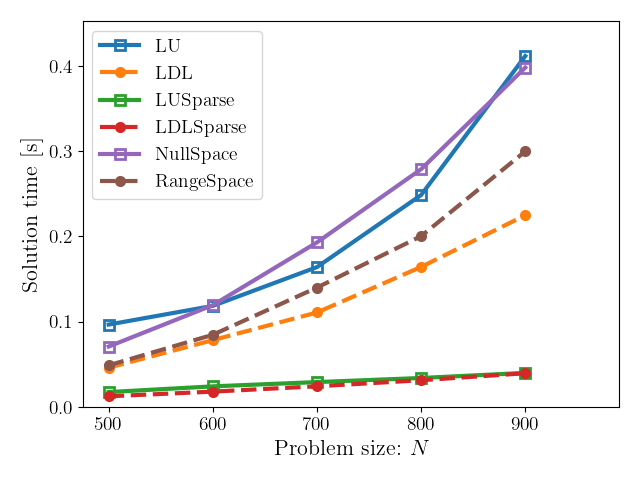
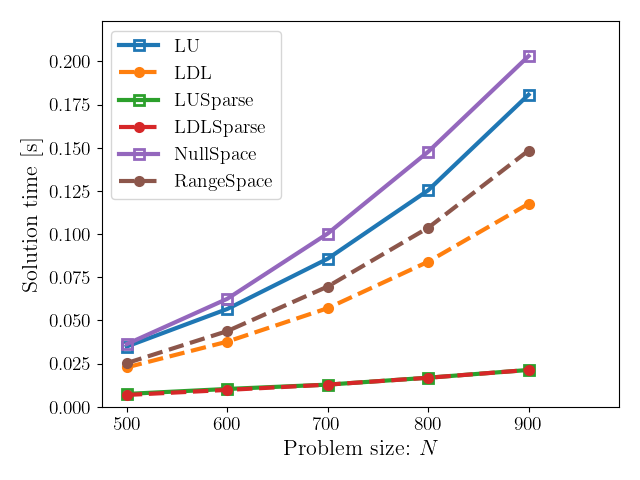
Working on exercise 1, apparantly there is a problem with the LDL sparse solver. But all other solvers work fine.

diff --git a/mtaho/Assignment/ex01/driver_ex015.py b/mtaho/Assignment/ex01/driver_ex015.py
@@ -1,0 +1,177 @@
+import os
+os.environ["OMP_NUM_THREADS"] = "1" # LIMIT NUMBER OF THREADS FOR MEASURING
+
+import matplotlib.pyplot as plt
+import numpy as np
+import sys
+import cvxpy as cp
+import cvxopt 
+import scipy as sp
+from scipy.optimize import minimize, Bounds
+from scipy.optimize import LinearConstraint, NonlinearConstraint
+import datetime
+import logging
+import timeit
+import pandas as pd
+# import cyipopt
+# from cyipopt import minimize_ipopt
+
+projectDir = "/home/mtaho/Code/Courses/ConstrainedOptimization"
+# projectDir = "C:/Users/marku/Programming/ConstrainedOptimization"
+sys.path.append(os.path.realpath(f"{projectDir}"))
+
+from mtaho.plot_settings import define_plot_settings
+from mtaho.src.FiniteDifference import FD
+from mtaho.src.BasicOpt import Opt
+from mtaho.src.Solvers import Solvers
+
+workDir = f"{projectDir}/mtaho/Assignment/ex01"
+
+### 3) Define problem
+
+
+def setupProblem(n, alpha, beta, density):
+    # Generates data for a random equality constrained convex QP
+    #
+    # Problem: 
+    # min_x : 0.5*x'Hx + g'x
+    # s.t.  : A'x = b
+    #
+    # Inputs:
+    #   n       : Number of variables
+    #   alpha   : Regularization factor. alpha > 0
+    #   beta    : Ratio between constraints and design variables: 0 < beta < 1
+    #   density : Density of sparse matrix. 0 < density < 1
+    seed = 100
+    np.random.seed(seed=seed)    
+    rng = np.random.default_rng(seed=seed)
+    rvs = sp.stats.norm(loc=1, scale=1).rvs
+
+    m = int(np.round(beta*n))
+    A = sp.sparse.random(n, m, density, random_state=rng,
+                         data_rvs=rvs) + alpha*sp.sparse.eye(n, m)
+    M = sp.sparse.random(n, n, density, random_state=rng,
+                         data_rvs=rvs)
+    H = M@M.T + alpha*sp.sparse.eye(n, n)
+
+    x = np.random.randn(n, 1)
+    lam = np.random.randn(m, 1)
+    
+    b = A.T@x
+    g = A@lam - H@x
+    
+    H = H.toarray()
+    A = A.toarray()
+
+    return H, g, A, b
+
+# Problem: 
+# min_x : 0.5*x'Hx + g'x
+# s.t.  :  A'x = b
+
+n = 100
+alpha = 100
+beta = 0.5
+density = 0.15
+H, g, A, b = setupProblem(n, alpha, beta, density)
+
+print("H = \n", H)
+print("g = \n", g)
+print("At = \n", A.transpose())
+print("b = \n", b)
+
+### 4) Setup KKT system
+K, r, m = Solvers.EqualityQPKKT(H, g, A, b)
+print("K = \n", K)
+print("r = \n", r)
+
+### 5) Solve KKT system using LU factorization
+x1, lam1 = Solvers.EqualityQPSolverLU(K, r, m)
+print("x1 = \n", x1)
+print("lam1 = \n", lam1)
+
+### 6) Solve KKT system using LDL factorization
+x2, lam2 = Solvers.EqualityQPSolverLDL(K, r, m)
+print("x2 = \n", x2)
+print("lam2 = \n", lam2)
+
+### 6) Solve KKT system using Null-Space procedure
+x3, lam3 = Solvers.EqualityQPSolverNullSpace(H, g, A, b)
+print("x3 = \n", x3)
+print("lam3 = \n", lam3)
+
+### 7) Solve KKT system using Range-Space procedure
+x4, lam4 = Solvers.EqualityQPSolverRangeSpace(H, g, A, b)
+print("x4 = \n", x4)
+print("lam4 = \n", lam4)
+
+### xx) Sparse versions
+x5, lam5 = Solvers.solveEqualityQP(H, g, A, b, type='LUSparse')
+print("x5 = \n", x5)
+print("lam5 = \n", lam5)
+
+x6, lam6 = Solvers.solveEqualityQP(H, g, A, b, type='LDLSparse')
+print("x6 = \n", x6)
+print("lam6 = \n", lam6)
+
+# Check for errors
+print("x_error = \n", 
+      np.linalg.norm(x1 + x2 + x3 + x4 + x5 - 5*x1))
+    #   np.linalg.norm(x1 + x2 + x3 + x4 + x5 + x6 - 6*x1))
+print("lam_error = \n", 
+      np.linalg.norm(lam1 + lam2 + lam3 + lam4 + lam5 - 5*lam1))
+    #   np.linalg.norm(lam1 + lam2 + lam3 + lam4 + lam5 + lam6 - 6*lam1))
+
+### 9+13) Performance comparison
+# Problem parameters
+
+types = ['LU', 'LDL',  'LUSparse', 'LDLSparse', 'NullSpace',
+         'RangeSpace']
+# types = types[-2:]
+NArray = np.arange(500, 1000, 100)
+times = np.zeros((len(NArray), len(types)))
+outPath = f"{workDir}/timings_solvers.csv"
+
+if 1:
+    for i, type in enumerate(types):
+        for j, n in enumerate(NArray):
+            H, g, A, b = setupProblem(n, alpha, beta, density)            
+            start_timer = timeit.default_timer()
+            x, lam = Solvers.solveEqualityQP(H, g, A, b, type)        
+            times[j, i] = timeit.default_timer() - start_timer
+    
+    df = pd.DataFrame(times, index=NArray, columns=types)
+    df.to_csv(outPath)
+
+define_plot_settings(16)
+df = pd.read_csv(outPath)
+fig, ax = plt.subplots()
+for k, type in enumerate(types):
+    if k % 2:
+        ls = 'o--'
+        fc = None
+        ms = 6
+    else:
+        ls = 's-'
+        fc = 'none'
+        ms = 7
+    ax.plot(NArray, df[type], ls, label=type, linewidth=3, 
+             markerfacecolor=fc, markeredgewidth=2, markersize=ms)
+ax.set_xlabel("Problem size: $N$")
+ax.set_ylabel("Solution time [s]")
+ax.set_xlim([np.min(NArray)*0.95, np.max(NArray)*1.1])
+ax.set_ylim([0, np.max(df[types])*1.1])
+# ax.set_ylim([0, 1])
+ax.legend()
+fig.tight_layout()
+plt.savefig(f'{workDir}/timings_solvers.png')
+
+### 10) Sparsity pattern of K
+N = 100
+H, g, A, b = setupProblem(N, uBar, d0)
+K, r, m = Solvers.EqualityQPKKT(H, g, A, b)
+
+fig, ax = plt.subplots()
+plt.spy(K)
+plt.savefig(f'{workDir}/Ksparsity_pattern.png', dpi=600)
+

diff --git a/mtaho/Assignment/ex01/driver_ex016.py b/mtaho/Assignment/ex01/driver_ex016.py
@@ -1,0 +1,89 @@
+import os
+os.environ["OMP_NUM_THREADS"] = "1" # LIMIT NUMBER OF THREADS FOR MEASURING
+
+import matplotlib.pyplot as plt
+import numpy as np
+import sys
+import cvxpy as cp
+import cvxopt 
+import scipy as sp
+from scipy.optimize import minimize, Bounds
+from scipy.optimize import LinearConstraint, NonlinearConstraint
+import datetime
+import logging
+import timeit
+import pandas as pd
+# import cyipopt
+# from cyipopt import minimize_ipopt
+
+projectDir = "/home/mtaho/Code/Courses/ConstrainedOptimization"
+# projectDir = "C:/Users/marku/Programming/ConstrainedOptimization"
+sys.path.append(os.path.realpath(f"{projectDir}"))
+
+from mtaho.plot_settings import define_plot_settings
+from mtaho.src.FiniteDifference import FD
+from mtaho.src.BasicOpt import Opt
+from mtaho.src.Solvers import Solvers
+
+workDir = f"{projectDir}/mtaho/Assignment/ex01"
+
+### 1) Define problem
+H = np.array([[5.0000, 1.8600, 1.2400, 1.4800, -0.4600],
+              [1.8600, 3.0000, 0.4400, 1.1200, 0.5200],
+              [1.2400, 0.4400, 3.8000, 1.5600, -0.5400],
+              [1.4800, 1.1200, 1.5600, 7.2000, -1.1200],
+              [-0.4600, 0.5200, -0.5400, -1.1200, 7.8000]])
+g = np.array([[-16.1000,-8.5000,-15.7000,-10.0200,-18.6800]]).T
+A = np.array([[16.1000, 1.0000],
+              [8.5000, 1.0000],
+              [15.7000, 1.0000],
+              [10.0200, 1.0000],
+              [18.6800, 1.0000]])
+b = np.array([[15.0, 1.0]]).T
+
+### 2) Solve KKT system using LU factorization
+x0, lam0 = Solvers.solveEqualityQP(H, g, A, b, type='LDL')
+r0 = np.vstack((g, b)) 
+print("x1 = \n", x0)
+print("lam1 = \n", lam0)
+
+# Brute force:
+n, m = np.shape(A)
+N = 10
+b1Array = np.linspace(8.5, 18.68, N)
+x1Array = np.zeros((n, N))
+for i, b1 in enumerate(b1Array):
+    b[0] = b1
+    x1, lam1 = Solvers.solveEqualityQP(H, g, A, b, type='LDL')
+    x1Array[:, i:i+1] = x1
+
+# Using sensitivies:
+K, r, m = Solvers.EqualityQPKKT(H, g, A, b, sparse=False)
+dKdr = -np.linalg.inv(K)
+x2Array = np.zeros((n, N))
+for i, b1 in enumerate(b1Array):
+    b[0] = b1
+    r = np.vstack((g, b))
+    z = dKdr@(r-r0)
+    x2 = x0 + z[0:n]
+    x2Array[:, i:i+1] = x2
+
+
+define_plot_settings(20)
+fig, ax = plt.subplots(figsize=(14, 4))
+lw = 2
+for i in range(n):
+    plt.plot(b1Array, x1Array[i, :], '-', label=f"$x_{i+1}$ - Sensitivity",
+             linewidth=lw)
+plt.gca().set_prop_cycle(None)
+for i in range(n):
+    plt.plot(b1Array, x2Array[i, :], 's', label=f"$x_{i+1}$ - Brute force", 
+             markerfacecolor=None, markeredgewidth=2, markersize=6,
+             linewidth=lw)
+
+ax.legend(bbox_to_anchor=(1, 1), loc="upper left", ncols=2)
+ax.set_xlabel("$b_1$")
+ax.set_ylabel("$x_i$")
+fig.tight_layout()
+# plt.show()
+plt.savefig(f"{workDir}/TestProblem2Solution.png", dpi=600)

diff --git a/mtaho/src/Solvers.py b/mtaho/src/Solvers.py
@@ -4,8 +4,10 @@ import scipy.sparse as sp
 import cvxopt
 import cvxopt.cholmod
 import sksparse
+import matplotlib.pyplot as plt
 import sksparse.cholmod
 from sksparse.cholmod import cholesky
+import qdldl
 # import torch
 
 class Solvers:
@@ -85,19 +87,29 @@ class Solvers:
         # Factorization:  PKP' = LDL' (Px = x(p))
         if not sparse:
                 # Optimized implementation
-            L, D, p = scipy.linalg.ldl(K, lower=True)           
-            d = np.diagonal(D)
-            z = scipy.linalg.solve_triangular(L, r, lower=True)      # Solve:   Lz = r
-            v = (z.T/d).T                                            # Compute: v = z/d
-            u = scipy.linalg.solve_triangular(L.T, v, lower=False)   # Solve:   L'u = v
+            # L, D, p = scipy.linalg.ldl(K, lower=True)           
+            # d = np.diagonal(D)
+            # z = scipy.linalg.solve_triangular(L, r, lower=True)      # Solve:   Lz = r
+            # v = (z.T/d).T                                            # Compute: v = z/d
+            # u = scipy.linalg.solve_triangular(L.T, v, lower=False)   # Solve:   L'u = v
                 # Naive implementation
             # w = scipy.linalg.solve(L, r, lower=True)      # Solve:   Lw = r
             # v = scipy.linalg.solve(D, w)                  # Solve:   Dv = w
             # u = scipy.linalg.solve(L.T, v, lower=False)   # Solve:   L'u = v
+                # Fix to avoid Bunch-Kaufman factorizaiton
+            u = scipy.linalg.solve(K, r, assume_a="sym")   # Solve:   Ku = r
         else:
-            Kfact = sksparse.cholmod.cholesky(K.tocsc())
-            u = Kfact.solve_A(r)
+            # Kfact = sksparse.cholmod.cholesky(K.tocsc())
+            # u = Kfact.solve_A(r)
 
+            # K = K.toarray()
+            # K = 0.5*(K + K.T)
+            # K = scipy.sparse.lil_matrix(K)
+
+            F = qdldl.Solver(K.tocsc())
+            u = F.solve(r)
+            u = u[np.newaxis].T
+               
         # Map solution to design variables and Lagrange multipliers
         x = u[0:n]
         lam = u[n:n+m]
